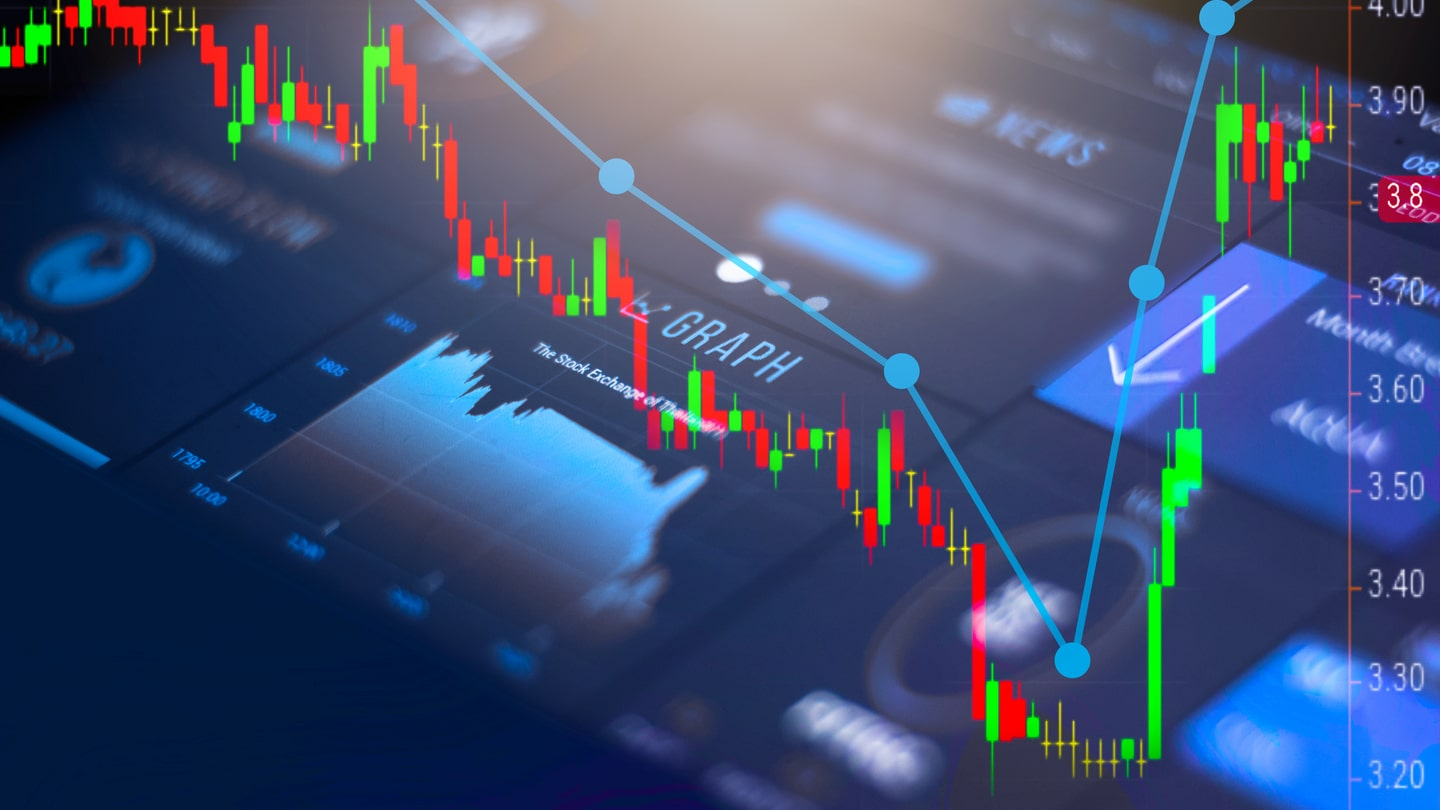
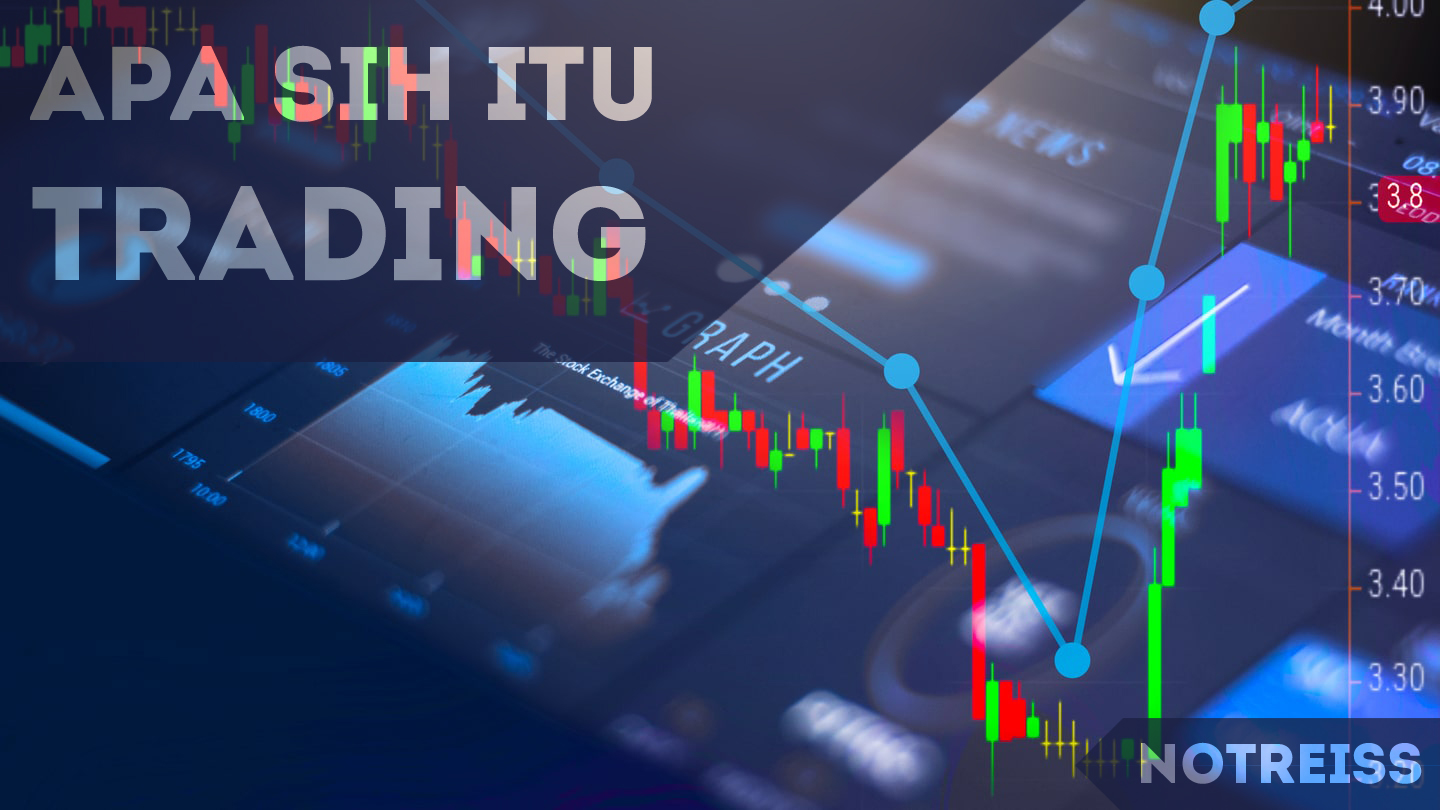
menambahkan artikel baru tentang scalper dan trader

diff --git a/layouts/author/list.html b/layouts/author/list.html
@@ -4,7 +4,7 @@
   <div class="container">
     <div class="row justify-content-center text-center">
       {{range .RegularPages }}
-      <div class="border-left shadow-sm rounded pt-3 box-shadow m-3 col-lg-4 col-sm-6 mb-4">
+      <div class=" shadow-sm rounded pt-3 box-shadow m-3 col-lg-4 col-sm-6 mb-4">
         {{ if .Params.image }}
         <a class="d-inline-block" href="{{.Permalink}}">
           {{ partial "image.html" (dict "Src" .Params.image "Size" "150x150" "Class" "img-fluid rounded" "Alt" .Title) }}

diff --git a/layouts/index.html b/layouts/index.html
@@ -9,7 +9,7 @@
         <div class="row">
           {{ $paginator := .Paginate (where site.RegularPages "Type" "in" site.Params.mainSections) }}
           {{range $index, $items := $paginator.Pages}}
-          <div class="border-left shadow-sm rounded pt-3 box-shadow my-3 {{ if (eq $index 0) }}col-lg-12{{ else }}col-lg-6{{ end }}">
+          <div class=" rounded pt-3 box-shadow my-3 {{ if (eq $index 0) }}col-lg-12{{ else }}col-lg-6{{ end }}">
             {{.Render "post"}}
           </div>
           {{end}}

diff --git a/layouts/partials/header.html b/layouts/partials/header.html
@@ -3,7 +3,7 @@
   <div class="container">
     <div class="row">
       <div class="col-12">
-        <nav class="navbar flex items-center navbar-expand-lg navbar-light p-0">
+        <nav class="navbar shadow-sm flex items-center navbar-expand-lg navbar-light p-0">
           <a class="navbar-brand font-weight-bold mb-3 mr-0" href="{{site.BaseURL}}">            
             {{ partial "logo.html" . }}
           </a>

diff --git a/content/blog/mengenal-binary-option-kenapa-disebut-berjudi-dan-merugikan.md b/content/blog/mengenal-binary-option-kenapa-disebut-berjudi-dan-merugikan.md
@@ -1,10 +1,10 @@
 +++
 author = "Tegar Deyustian"
-categories = ["Artikel Deskriptif"]
+categories = ["Artikel"]
 date = 2022-02-11T20:02:00Z
 description = "Akhir- akhir ini lagi ramai diperbincangkan dan muncul di berita - berita tentang \"Binary Option\" serta tentang affiliator dari platform trading yang menerapkan system binary option dalam platformnya, tapi bener ga sih kalo binary option itu merugikan ? apakah benar ini disebut judi ? mari kita bahas."
-image = "images/post/binary.jpg"
-tags = ["Keuangan", "Binary Option", "Trading"]
+image = "images/post/scalping.jpg"
+tags = ["Binary Option", "Trading"]
 title = "Mengenal binary option, kenapa disebut berjudi dan merugikan ?"
 +++
 
@@ -30,9 +30,13 @@ Dan hal terakhir yang saya tidak sukai ketika kita melakukan buy or sell lalu ha
 
 Sebenarnya banyak hal teknis untuk menjelaskan kenapa binary option disamakan dengan judi tapi saya akan coba jelaskan secara sesederhana mungkin.  
   
-**Ada 3 hal yang menurut saya serupa :**  
-Contoh kita ambil judi bola dalam judi bola kita nanti akan melakukan bet atau taruhan terhadap salah satu dari dua tim yang berlaga dan ini dapat disamakan ketika kita memilih harga akan naik atau turun mirip bukan rasio nya 50 : 50.   
-Lalu hal kedua adalah presentase kerugian, yang mana ketika tim bola yang kita pilih kalah maka kita akan kehilangan segala yang kita pertaruhkan sama saat analisa kita salah dan kita mengalami rugi maka 100% kita akan kehilangan nominal yang kita masukan saat open posisi.  
-Dan yang terakhir adalah yang menurut saya paling melenceng dari arti trading adalah hal yang kita perdagangkan tidaklah jelas kenapa saya bilang begini, ok mari kita bahas mekanisme binary option jadi saat kita melakukan open posisi atau masuk market kita dapat memilih timeframe bukan ? contoh misal 5 menit lalu saat kita masuk dan 5 menit berakhir anggap saja kita untung misal kita membeli instrument btc 1 juta ketika kita untung kita akan mendapat 1.800.000 nah disinilah letak ketidak normalannya kalo kita fahami esensi dari trading itu sendiri adalah kita membeli barang diharga tertentu dan berharap harga itu sesuai dengan analisa kita naik atau turun bukan, lalu **bagaimana bisa sebuah harga barang tertentu dapat naik 80% dengan kurun waktu hanya dalam 5 menit ?!** hal ini sangatlah tidak wajar dan dapat disimpulkan keuntungan yg kita dapat itu dibayarkan oleh bandar sama seperti judi.
+##### Ada 3 hal yang menurut saya serupa :
+**1.** Contoh kita ambil judi bola dalam judi bola kita nanti akan melakukan bet atau taruhan terhadap salah satu dari dua tim yang berlaga dan ini dapat disamakan ketika kita memilih harga akan naik atau turun mirip bukan rasio nya 50 : 50.
 
-> Sekian penjelasan singkat mengenai Binary Option, artikel diatas murni dari pandangan saya pribadi terhadap binary option dan saya hanya murni berniatan untuk mengedukasi dan bukan untuk menjatuhkan pihak manapun.
+**2.** Lalu hal kedua adalah presentase kerugian, yang mana ketika tim bola yang kita pilih kalah maka kita akan kehilangan segala yang kita pertaruhkan sama saat analisa kita salah dan kita mengalami rugi maka 100% kita akan kehilangan nominal yang kita masukan saat open posisi.  
+
+**3.** Dan yang terakhir adalah yang menurut saya paling melenceng dari arti trading adalah hal yang kita perdagangkan tidaklah jelas kenapa saya bilang begini, ok mari kita bahas mekanisme binary option jadi saat kita melakukan open posisi atau masuk market kita dapat memilih timeframe bukan ? 
+
+Contoh misal 5 menit lalu saat kita masuk dan 5 menit berakhir anggap saja kita untung misal kita membeli instrument btc 1 juta ketika kita untung kita akan mendapat 1.800.000 nah disinilah letak ketidak normalannya kalo kita fahami esensi dari trading itu sendiri adalah kita membeli barang diharga tertentu dan berharap harga itu sesuai dengan analisa kita naik atau turun bukan, lalu **bagaimana bisa sebuah harga barang tertentu dapat naik 80% dengan kurun waktu hanya dalam 5 menit ?!** hal ini sangatlah tidak wajar dan dapat disimpulkan keuntungan yg kita dapat itu dibayarkan oleh bandar sama seperti judi.
+
+Sekian penjelasan singkat mengenai Binary Option, artikel diatas murni dari pandangan saya pribadi terhadap binary option dan saya hanya murni berniatan untuk mengedukasi dan bukan untuk menjatuhkan pihak manapun.

diff --git a/content/blog/perbedaan-trading-dan-scalping.md b/content/blog/perbedaan-trading-dan-scalping.md
@@ -1,0 +1,35 @@
+---
+title: "Perbedaan Scalping Dan Trading"
+description: "sering kali kita melihat atau mendengar tetang dua profesi ini dalam dunia trading dan mungkin buat kalian yang masih awam masih bingung tentang dua hal ini di artikel kali ini saya akan coba menjelaskan nya secara umum dan sederhana."
+image: "images/post/scalptrade.jpg"
+date:  2022-02-13T14:57:58+07:00
+author: "Tegar Deyustian"
+tags: ["Scalping", "Trading"]
+categories: ["Artikel"]
+draft: false
+---
+ Sering kali kita melihat atau mendengar tetang dua profesi ini dalam dunia trading dan mungkin buat kalian yang masih awam masih bingung tentang dua hal ini di artikel kali ini saya akan coba menjelaskan nya secara umum dan sederhana.
+
+#### Apa itu Scalping dan Trading
+Sebenarnya **[Trading](https://notreiss.netlify.app/tags/keuangan/)** sendiri sudah sempat saya bahas jadi singkatnya trading adalah suatu aktifitas jual beli sebuah asset tertentu dengan mengandalkan analisa terhadap grafik asset tersebut dengan menggunakan analisa tehnikal lalu **Scalping** sebenarnya adalah salah satu jenis _Trading Style_ dan juga biasanya sering disebut sebagai _"The Fastest Form Of Trading Style"_ yang maksudnya adalah jika scalping ini adalah tehnik trading dengan waktu yang sikat sehingga kita dapat mendapatkan outputnya dalam jangka waktu yang pendek.
+
+#### Perbeda'an Scalping dan Trading
+Menurut saya pribadi terdapat dua perbeda'an yang menjadi pembeda terbesar antara dua hal ini dan wajib difahami sebelum kalian mencoba dua trading style ini.
+##### 1. Timeframe
+Timeframe, timeframe sendiri maksudnya adalah seperti periode harga barang dalam grafik yang kita lihat, misal kita memilih time frame satu jam maka grafik akan menampilkan grafik pergerakan barang tiap 1 jam.
+ 
+Nah dalam scalping dan trading dua hal ini memiliki timeframe yang sangat jauh, para **Trader** biasnya akan melakukan trading mereka dalam timeframe periode per jam an atau periode harian misal 1H, 4H, 1D, 3D, 5D.
+
+Sedangkan para **Scalper** ini memiliki periode timeframe yang pendek atau kecil misal 1 menit, 5 menit, 15 menit dan juga bahkan ada dari mereka yang melihat pergerakan dalam timeframe 1 detik untuk terus memantau pergerakan harga.     
+##### 2. Tehnik Analisa
+Lalu tehnik analisa yang diterapkan pun jelas berbeda tidak semua tehnik analisa yang kita gunakan di trading dapat diterapkan di scalping begitupun sebaliknya.
+
+Contohnya mungkin dalam trading yang menggunakan timeframe harian kita biasanya setelah melakukan analisa pada chart dan menemukan pola kita melanjutkan menggunakan beberapa indicator untuk memvalidasi analisa kita, **tetapi** dalam scalping yang menggunakan timeframe rendah seperti satu menit kita biasanya tidak meggunakan banyak analisa ini dikarenakan waktu periode yang sangat pendek sehingga kita harus cepat dalam mengambil keputusan.
+#### Mana Yang Lebih Baik ?
+Pertanya'an seperti ini sangatlah relative jawabannya namun bagi saya pribadi keduanya sama - sama baik karena pasti memiliki kekurangan dan kelebihan tersendiri dan buat kalian yang bingung ingin masuk ke dalam golongan mana silahkan coba sendiri dalam akun demo dan silahkan pelajari tiap metode yang digunakan masing - masing.
+
+Dan selalu **Ingat** jangan pernah memilih hanya karena ikut - ikut'an mungkin setelah melihat video hasil dari salah satunya kalian merasa tergiur dan akhirnya hanya ikut - ikut'an tapi perlu kalian ingat adalah tiap individu memiliki perbeda'an sendiri - sendiri ada yang lebih cocok di trading dan juga ada yang lebih cocok ke scalping.
+
+Karena misal kalau kamu orang yang adrenaline nya rendah maka kamu gak akan cocok dengan scalping atau kalau kamu orang nya suka yang sambil santai - santai dan ga ngeliatin chart terus kamu akan lebih cocok ke day trading, jadi coba sendiri dan tentukan diri kamu lebih prefer kemana.
+##### Advice
+Saran dari saya selalu lakukan percoba'an dan implementasi dulu terhadap segala tehnik analisa yang kamu terima atau kamu validasi lagi, jangan dimakan mentah informasi apapun itu tak terkecuali informasi dari artikel diatas contohnya kalau pun ada yang bilang "scalping lebih menguntungkan dari trading" kembali lagi itu hanyalah statement segala keputusan ada ditangan kita.

diff --git a/content/blog/apa-sih-itu-trading.md b/content/blog/apa-sih-itu-trading.md
@@ -1,14 +1,12 @@
 +++
 author = "Tegar Deyustian"
-categories = ["Artikel Deskriptif"]
+categories = ["Artikel"]
 date = 2022-02-11T16:07:00Z
 description = "Mungkin kalian sering mendengar istilah trading atau trader di kalayak umum atau pun berasal dari sumber informasi - informasi tertentu yang memperlihatkan keuntungan yang besar dari trading ini, tapi bener ga sih hal itu ? apakah itu benar mudah seperti yang kita lihat di iklan - iklan ? yuk kita bahas."
-image = "images/post/trading.jpg"
-tags = ["Keuangan", "Trading"]
+image = "images/post/trading.jpeg"
+tags = ["Trading"]
 title = "Apa sih itu trading ?"
 +++
-
-### Apa sih itu trading ?
 
 Mungkin kalian sering mendengar istilah trading atau trader di kalayak umum atau pun berasal dari sumber informasi - informasi tertentu yang memperlihatkan keuntungan yang besar dari trading ini, tapi bener ga sih hal itu ? apakah itu benar mudah seperti yang kita lihat di iklan - iklan ? yuk kita bahas.
 
@@ -20,8 +18,9 @@ Trading disini itu kita melakukan perdagangan namun yang diperdagangkan itu bias
 
 #### Apakah trading itu beresiko ?
 
-Tentu saja, tidak ada trading yang tidak memiliki risiko, besar kecil risiko itu tergantung dengan "Risk Management" kita, karna sejatinya dalam trading keuntungan dan kerugian itu berbanding lurus yang mana berarti  _"how risk, low return and high risk, high return"_ jadi pastikan ilmu anda memadai sebelum benar - benar melakukan aktifitas trading anda.
+Tentu saja, tidak ada trading yang tidak memiliki risiko, besar kecil risiko itu tergantung dengan "Risk Management" kita, karna sejatinya dalam trading keuntungan dan kerugian itu berbanding lurus yang mana berarti  _"low risk, low return and high risk, high return"_ jadi pastikan ilmu anda memadai sebelum benar - benar melakukan aktifitas trading anda.
 
-#### Apakah trading itu halal ?
+#### Darimana keuntungan trading ?
+Sama seperti aktifitas perdagangan di pasar terdapat penawaran dan permintaan di trading intrument pun juga begitu kita akan membeli barang diharga tertentu saat ini dengan harapan harga akan berubah sesuai hasil analisa kita dan akan menjual barang itu lagi.
 
-MUI sendiri sudah menghalalkan aktifitas trading ini namun dengan syarat aset yang diperjual belikan jelas dan ada barangnya, dan juga trading yang dimaksudkan halal adalah yg bersifat SPOT trading yang mana aktifitas transaksi uang dan barangnya dilakukan langsung dan tunai tentunya.
+hanya saja menariknya dalam trading ini kita akan berdagan dipasar yang memiliki likuiditas (kepadatan transaksi) yang sangat besar contoh dalam pasar forex yang sifatnya global pergerakan harga sangatlah cepat karena besarnya volume jual beli barang. 

diff --git a/content/author/tegar-deyustian.md b/content/author/tegar-deyustian.md
@@ -7,12 +7,12 @@ description: Dalam dunia menulis bisa terbilang saya cukup baru jadi dengan adan
   website ini saya ingin meningkatkan kemampuan saya dalam berliterasi terutama dengan
   menulis artikel yang tentunya untuk edukasi.
 social:
-- icon: la-facebook-f
-  link: https://facebook.com
+- icon: la-github
+  link: https://www.github.com/lynxeevnxx
 - icon: la-twitter
-  link: https://twitter.com
-- icon: la-linkedin-in
-  link: https://linkedin.com
+  link: https://twitter.com/deyustian/
+- icon: la-instagram
+  link: https://www.instagram.com/tegar_deyustian/
 
 ---
 Dalam dunia menulis bisa terbilang saya cukup baru jadi dengan adanya website ini saya ingin meningkatkan kemampuan saya dalam berliterasi terutama dengan menulis artikel yang tentunya untuk tujuan edukasi.
